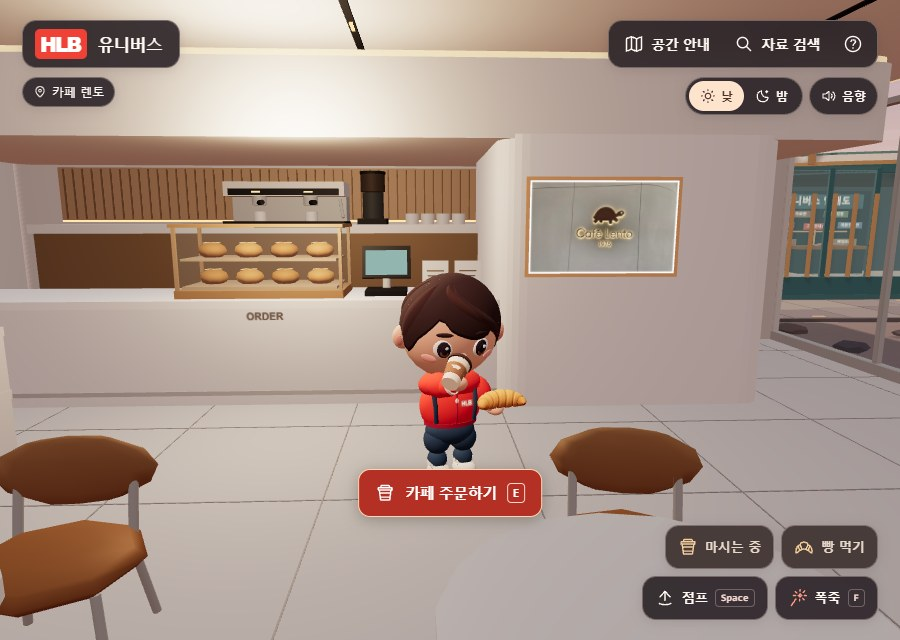
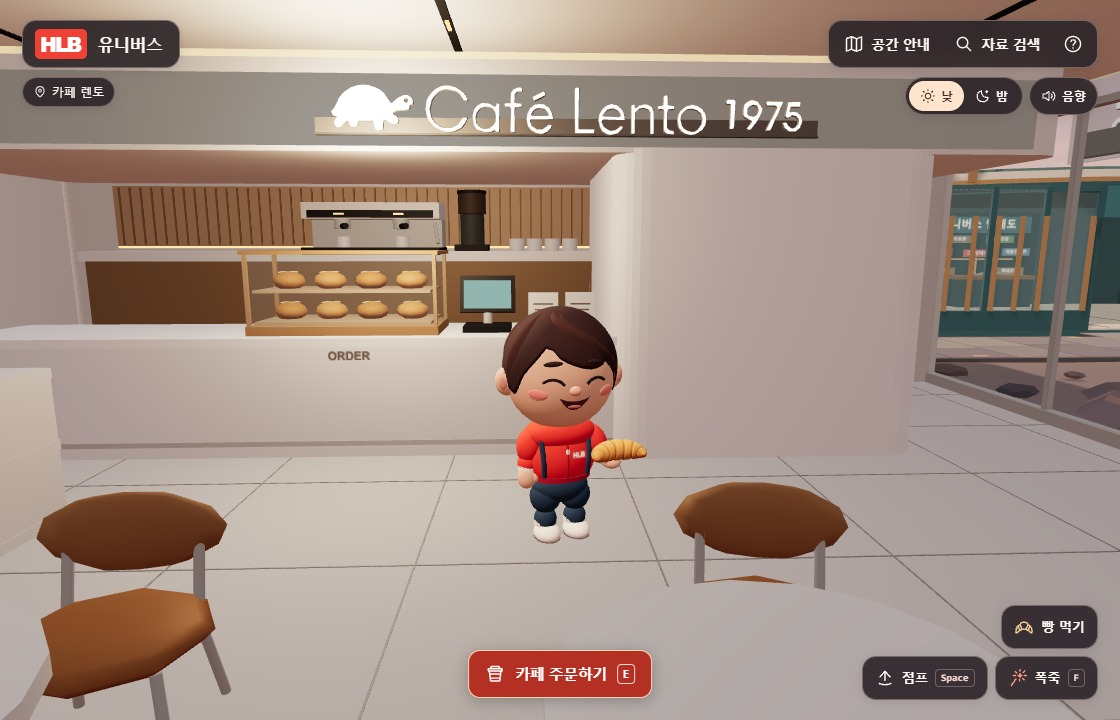
Recreate the Cafe Lento marquee and add a smile after each treat

diff --git a/src/cafe.js b/src/cafe.js
@@ -1,6 +1,49 @@
 (() => {
   "use strict";
 
+  // Front outlines traced from the supplied Café Lento sign. Each entry is
+  // one solid silhouette followed by its cutouts, in common lettering units.
+  const signOutlines=[
+    ["0,43 3,37 11,34 4,21 5,17 10,12 15,12 18,13 27,23 32,26 35,25 37,18 40,14 42,13 49,13 52,15 56,26 85,26 87,26 88,23 89,16 91,9 96,6 99,6 106,8 108,10 108,23 109,26 112,29 127,20 133,19 138,21 141,26 141,30 137,35 131,39 130,43 138,48 156,49 164,51 165,53 166,60 171,60 172,61 173,64 173,69 171,73 166,77 162,79 155,79 143,74 130,63 126,63 113,82 105,89 98,93 82,98 71,99 59,98 43,93 26,82 17,71 6,51 1,46", "154,67 158,63 161,63 163,66 163,71 162,73 158,73 155,71"],
+    ["200,51 202,38 206,27 219,13 238,5 250,4 260,6 275,13 284,24 288,33 280,34 268,19 254,12 238,12 230,14 218,23 211,35 208,51 213,69 218,77 228,86 236,90 246,92 266,88 273,83 282,70 288,69 290,71 282,84 266,95 250,99 236,98 221,91 210,80 203,69"],
+    ["300,37 302,20 306,13 310,9 328,4 340,5 346,9 352,5 356,5 358,61 356,63 352,63 350,57 348,56 336,63 322,64 316,62 309,57 304,51", "306,35 307,23 311,17 318,12 326,10 336,12 345,19 349,25 350,37 349,45 344,53 340,55 328,57 316,53 309,45"],
+    ["369,61 370,57 380,57 383,53 381,7 384,4 390,5 390,53 392,56 404,57 406,59 405,63 394,64 390,65 391,83 396,88 406,88 407,93 404,96 398,96 388,92 383,85 382,65 380,64 370,64"],
+    ["416,31 419,17 426,9 436,3 448,1 455,3 462,7 468,13 470,19 464,20 450,10 438,10 427,17 423,27 425,31 472,32 473,33 470,45 464,55 454,62 444,63 433,61 424,54 418,43", "425,41 428,38 432,38 462,38 464,41 461,47 456,53 444,55 438,54 432,51"],
+    ["429,77 432,71 434,70 456,81 456,83 454,88 452,88"],
+    ["520,93 521,3 562,3 563,11 530,11 528,13 529,95 528,97 522,97"],
+    ["572,31 576,15 581,7 592,1 600,0 613,3 622,11 626,17 620,18 610,10 598,8 588,13 583,17 578,27 580,31 584,32 628,31 629,33 626,47 620,55 612,61 600,64 588,60 580,53 574,43", "581,41 581,39 584,38 616,37 621,39 619,45 614,51 604,55 596,54 590,52"],
+    ["643,59 644,3 650,3 651,5 651,45 654,50 660,55 670,57 680,54 685,47 686,4 688,2 693,3 692,47 688,58 679,63 672,64 660,61 654,56 650,57 650,63 644,62"],
+    ["701,59 702,54 712,55 715,51 715,13 717,7 724,3 736,2 738,3 736,9 728,10 722,15 721,47 724,54 736,55 737,61 724,62 722,63 722,81 718,83 714,81 713,79 713,63 710,61 703,61"],
+    ["745,31 748,17 754,9 764,3 776,1 786,3 800,12 806,21 808,33 806,44 798,55 788,61 776,64 762,60 750,50 746,42", "751,33 754,21 758,15 766,10 776,7 784,8 791,13 798,23 800,31 798,41 795,47 787,53 776,56 766,55 757,49 752,41"],
+    ["850,70 853,66 858,67 861,65 861,18 862,14 868,14 870,18 871,72 868,75 853,75"],
+    ["889,54 890,43 894,39 909,31 909,28 899,15 902,13 907,13 920,30 930,49 931,57 927,63 919,72 907,75 899,72 894,68 891,65", "898,51 898,46 902,42 912,40 918,42 921,46 923,54 921,59 918,64 910,65 902,62 898,57"],
+    ["939,70 941,64 959,64 963,62 964,59 942,13 943,11 951,12 976,70 975,72 949,72 941,72"],
+    ["979,26 983,17 993,10 1008,10 1017,18 1021,31 1017,43 1008,50 1000,51 993,50 992,51 992,57 995,62 1014,62 1015,70 1014,72 988,71 983,42 988,38 998,44 1008,42 1013,36 1014,31 1013,26 1010,21 1003,16 998,16 991,21 986,28 980,28"]
+  ];
+
+  function makeLettering(T) {
+    function trace(path, contour) {
+      const points=contour.split(" ");
+      for (let i=0;i<points.length;i++) {
+        const [x,y]=points[i].split(",").map(Number);
+        if (i===0) path.moveTo(x,y);
+        else path.lineTo(x,y);
+      }
+      path.closePath();
+      return path;
+    }
+    const shapes=signOutlines.map(([outline,...holes])=>{
+      const shape=trace(new T.Shape(),outline);
+      shape.holes=holes.map(contour=>trace(new T.Path(),contour));
+      return shape;
+    });
+    const geometry=new T.ExtrudeGeometry(shapes,{
+      depth:7,bevelEnabled:true,bevelSize:.85,bevelThickness:1,bevelSegments:1
+    });
+    geometry.center();
+    return geometry;
+  }
+
   function build({T,site,box,place,tube,collider,colliders,roofs}) {
     // Local positive X faces the plaza. Local positive Z faces the window seats.
     const cx=-14.8, cz=10.82, roofY=3.92;
@@ -80,24 +123,31 @@
       mesh(text,new T.PlaneGeometry(w,h),mat,x,y,z).rotation.y=yaw;
     }
 
-    // Two identical photographic light boxes use the supplied original sign.
-    const signMaterial=new T.MeshBasicMaterial({color:0xb9afa0,toneMapped:false});
-    if (typeof document.createElementNS==="function") {
-      new T.TextureLoader().load("assets/cafe/cafe-lento-sign.jpg",texture=>{
-        texture.colorSpace=T.SRGBColorSpace;
-        texture.anisotropy=4;
-        signMaterial.map=texture;
-        signMaterial.color.setHex(0xffffff);
-        signMaterial.needsUpdate=true;
-      });
-    }
-    function sign(x,y,z,w,yaw) {
-      const h=w*494/800;
-      const bezel=mesh("Champagne sign surround",new T.BoxGeometry(w+.07,h+.07,.035),finish(brass),x,y,z);
-      bezel.rotation.y=yaw;
-      const face=mesh("Café Lento · turtle sign",new T.PlaneGeometry(w,h),signMaterial,
-        x+Math.sin(yaw)*.022,y,z+Math.cos(yaw)*.022);
-      face.rotation.y=yaw;
+    const lettering=makeLettering(T);
+    const letterFace=new T.MeshStandardMaterial({
+      color:0xf0e9d9,emissive:0xfff5e7,emissiveIntensity:.80,roughness:.55,toneMapped:false
+    });
+    const letterMaterials=[letterFace,finish(0x8c8376)];
+    const fascia=new T.MeshStandardMaterial({color:0x807970,metalness:.14,roughness:.58});
+    function sign(name,x,y,z,width,yaw) {
+      const mount=new T.Group();
+      mount.name=name;
+      mount.position.set(x,y,z);
+      mount.rotation.y=yaw;
+      mount.scale.setScalar(width/1100);
+      room.add(mount);
+      const board=new T.Mesh(new T.BoxGeometry(1100,34,13),fascia);
+      board.name="Steel letter rail";
+      board.position.y=-32;
+      board.receiveShadow=true;
+      mount.add(board);
+      const lowerLip=new T.Mesh(new T.BoxGeometry(1104,4,17),finish(0x59544f));
+      lowerLip.position.y=-49;
+      mount.add(lowerLip);
+      const letters=new T.Mesh(lettering,letterMaterials);
+      letters.name="Café Lento · illuminated lettering";
+      letters.position.z=12;
+      mount.add(letters);
     }
 
     slab("Limestone plinth",0,.003,0,12.22,.12,10.22,.3,finish(tile));
@@ -121,7 +171,12 @@
     block(5.94,3.48,0,.12,.075,9.92,metal);
     slab("Ivory entrance pier",5.83,.12,.61,.46,3.72,2.1,.18,finish(porcelain));
     solid(5.83,.61,.46,2.1,3.85);
-    sign(6.074,2.05,.61,1.9,Math.PI/2);
+    // Glazed transom behind the sign; the channel letters stand above their mounting rail.
+    const transom=new T.MeshStandardMaterial({
+      color:0x768487,transparent:true,opacity:.36,depthWrite:false,roughness:.26
+    });
+    mesh("Smoked transom",new T.BoxGeometry(.045,.84,7.88),transom,6.067,3.34,1.02);
+    sign("Café Lento · entrance marquee",6.11,3.33,1.02,7.71,Math.PI/2);
     block(5.94,3.55,3.0,.16,.14,2.7,espresso);
     const roofCollider=collider(cx,cz,12.34,10.3,4.18,roofY-.14);
     roofs.push(roofCollider);
@@ -143,7 +198,11 @@
     slab("Coffee bar soffit",-.34,2.84,-3.11,10.55,.74,3.14,.28,finish(plaster));
     slab("Coffee bar cove",-.34,3.58,-3.11,10.46,.065,3.08,.25,cove);
     slab("Rounded sign wall",2.40,.12,-2.99,2.88,2.76,2.95,.30,finish(porcelain));
-    sign(2.00,1.98,-1.49,1.48,0);
+    const smokedGlass=new T.MeshBasicMaterial({
+      color:0x6c665e,transparent:true,opacity:.64,depthWrite:false,toneMapped:false
+    });
+    mesh("Coffee bar glass header",new T.BoxGeometry(9.90,.57,.018),smokedGlass,-.34,3.17,-1.529);
+    sign("Café Lento · counter marquee",.56,3.16,-1.51,4.22,0);
     block(-1.57,1.04,-4.23,6.9,1.75,.8,oakShadow);
     block(-1.57,1.93,-4.20,6.98,.12,.86,porcelain);
     block(-1.57,2.42,-4.72,6.95,.75,.32,oak);
@@ -273,7 +332,7 @@
       id:"cafe",...entry,station,lookAt,label:{...entry,y:3.68},
       interior:{minX:cx-6,maxX:cx+6,minZ:cz-5,maxZ:cz+5,ceilingY:roofY-.15},
       exhibits:[{id:"cafe-counter",title:"카페 주문대",station,lookAt,
-        hitBox:collider(cx-.92,cz-2.53,8.28,2.12,2.76,.12)}]
+        hitBox:collider(cx-.92,cz-2.53,8.28,2.17,3.49,.12)}]
     };
   }
 

diff --git a/src/player3d.js b/src/player3d.js
@@ -85,6 +85,7 @@
     const head = joint(chest,0,headHeightAboveHips,-.009);
     head.name = "visitor-head";
     const eyes = joint(head,0,-.022,0);
+    eyes.name = "visitor-eyes";
     part(head,(oval,band,seam,add) => {
       oval(skin,0,0,0,.373,.388,.303);
       for (const s of [-1,1]) {
@@ -163,6 +164,35 @@
       seam(0x9a5455,[[-.056,.009,-.001],[-.027,-.008,0],
         [0,-.013,.001],[.030,-.006,0],[.054,.011,-.001]],.008);
     });
+    const smile = joint(head,0,0,0);
+    smile.name = "visitor-cafe-smile";
+    smile.visible = false;
+    part(smile,(oval,band,seam,add) => {
+      // Place the expression directly on the rounded face, even at its outer edges.
+      function surface(x,y) {
+        return -.303*Math.sqrt(1-(x/.373)**2-(y/.388)**2)-.006;
+      }
+      for (const s of [-1,1]) {
+        const eyelid = [[.073,-.040],[.100,-.016],[.139,-.004],[.175,-.010],[.200,-.025]];
+        seam(ink,eyelid.map(([x,y])=>[s*x,y,surface(x,y)-.004]),.010);
+        oval(0xed8a7c,s*.225,-.101,-.234,.064,.030,.012,0,-s*.60,s*.12);
+      }
+      // A broad open grin with lifted corners; a pink tongue follows its lower lip.
+      const vertices=[], indices=[];
+      for (let i=0;i<=20;i++) {
+        const u=i/10-1, x=u*.100;
+        for (const y of [-.148+.024*u*u,-.207+.083*u*u]) vertices.push(x,y,surface(x,y)-.004);
+        if (i) {
+          const k=i*2;
+          indices.push(k-2,k,k-1,k,k+1,k-1);
+        }
+      }
+      const grin=new T.BufferGeometry();
+      grin.setAttribute("position",new T.Float32BufferAttribute(vertices,3));
+      grin.setIndex(indices); grin.computeVertexNormals();
+      add(grin,0x773c42,0,0,0,1,1,1);
+      oval(0xeb9585,0,-.184,surface(0,-.184)-.006,.043,.012,.006,-.49);
+    });
 
     const labelCanvas = document.createElement("canvas");
     labelCanvas.width = 256; labelCanvas.height = 112;
@@ -215,7 +245,9 @@
       arms.push({arm,elbow,hand}); legs.push({thigh,shin});
     }
     const treats = {coffee:null, bread:null};
-    let consuming = null, consumeTime = 0;
+    const tastingPose = {turnIn:0, turnBack:0};
+    const smileDuration=1.45;
+    let consuming = null, consumeTime = 0, smileRemaining = 0;
     function orderCafeItem(item) {
       if ((item !== "coffee" && item !== "bread") || treats[item]) return false;
       const prop = new T.Group();
@@ -277,7 +309,7 @@
     }
     function consumeCafeItem(item) {
       if ((item !== "coffee" && item !== "bread") || consuming || !treats[item]) return false;
-      consuming=item; consumeTime=0;
+      consuming=item; consumeTime=0; smileRemaining=0;
       return true;
     }
     function getCafeState() {
@@ -299,13 +331,17 @@
     let phase = 0, weight = 0, elapsed = 0;
     function animate(dt, travelled, reducedMotion, jumpHeight = 0) {
       elapsed += dt;
-      let reach=0, chew=0;
+      let reach=0, chew=0, happy=false, turn=null;
+      const smooth=T.MathUtils.smoothstep;
       if (consuming) {
         const drink=consuming==="coffee";
         consumeTime += dt;
         const t=consumeTime/(reducedMotion ? .92 : drink ? 1.76 : 1.56);
-        const smooth=T.MathUtils.smoothstep;
         reach=smooth(t,0,.32)*(1-smooth(t,.65,1));
+        turn=tastingPose;
+        turn.turnIn=reducedMotion ? 1 : smooth(t,0,.32);
+        turn.turnBack=0;
+        happy=t>=.81;
         if (!drink && !reducedMotion) chew=Math.sin(t*Math.PI*15)*smooth(t,.38,.55)*(1-smooth(t,.78,.99));
         if (t>=1) {
           const prop=treats[consuming];
@@ -313,8 +349,18 @@
           prop.traverse(object=>object.geometry?.dispose());
           treats[consuming]=null;
           consuming=null;
+          smileRemaining=smileDuration;
+        }
+      } else if (smileRemaining>0) {
+        smileRemaining=Math.max(0,smileRemaining-dt);
+        happy=smileRemaining>0;
+        if (happy) {
+          turn=tastingPose; turn.turnIn=1;
+          turn.turnBack=reducedMotion ? 0 : 1-smooth(smileRemaining,0,.38);
         }
       }
+      smile.visible=happy;
+      eyes.visible=mouth.visible=!happy;
       phase += travelled * 7.2;
       weight += ((travelled > 0.0002 ? 1 : 0) - weight) * (1 - Math.exp(-dt * 15));
       const inAir = clamp(jumpHeight / .53,0,1);
@@ -353,7 +399,7 @@
           prop.quaternion.setFromEuler(tilt).premultiply(wrist);
         }
       }
-      return consuming ? reach : null;
+      return turn;
     }
     function dispose() {
       root.removeFromParent();
@@ -557,10 +603,11 @@
     function consumeCafeItem(item) {
       if (!active || !visitor.consumeCafeItem(item)) return false;
       if (!route.length && !held.size && !freshPresses.size && Math.hypot(stick.x,stick.y)<=.04) {
-        const from=visitor.root.rotation.y;
+        const start=visitor.root.rotation.y, home=cafeTurn?.home ?? start;
         const toCamera=yaw+Math.PI+(item==="coffee" ? .32 : -.32);
-        const delta=Math.atan2(Math.sin(toCamera-from),Math.cos(toCamera-from));
-        cafeTurn={from,delta};
+        const toward=Math.atan2(Math.sin(toCamera-start),Math.cos(toCamera-start));
+        const back=Math.atan2(Math.sin(home-toCamera),Math.cos(home-toCamera));
+        cafeTurn={start,home,toward,back};
       }
       return true;
     }
@@ -684,13 +731,13 @@
       if (active) jumpTime = Math.min(jumpDuration, jumpTime + dt);
       const jumpPhase = jumpTime / jumpDuration;
       jumpHeight = 4 * jumpPeak * jumpPhase * (1 - jumpPhase);
-      const reach=visitor.animate(active ? dt : 0,travelled,reducedMotion.matches,jumpHeight);
+      const tastingPose=visitor.animate(active ? dt : 0,travelled,reducedMotion.matches,jumpHeight);
       if (active && cafeTurn) {
-        // Present the active hand to the current viewpoint. Following the hand's
-        // reach also restores the original heading as the arm comes down.
-        const turn=reach===null ? 0 : reducedMotion.matches ? 1 : reach;
-        visitor.root.rotation.y=cafeTurn.from+cafeTurn.delta*turn;
-        if (reach===null) cafeTurn=null;
+        // Stay facing the viewer after the hand comes down so the smile is visible.
+        visitor.root.rotation.y=tastingPose
+          ? cafeTurn.start+cafeTurn.toward*tastingPose.turnIn+cafeTurn.back*tastingPose.turnBack
+          : cafeTurn.home;
+        if (!tastingPose) cafeTurn=null;
       }
       updateCamera(dt);
       return position;

diff --git a/index.html b/index.html
@@ -7,7 +7,7 @@
   <meta name="description" content="HLB 유니버스에서 에데꼬론 상품관과 HLB그룹 전시관을 걸으며 제품과 그룹 자료를 살펴보세요.">
   <title>HLB 유니버스</title>
   <link rel="icon" href="assets/favicon.svg" type="image/svg+xml">
-  <link rel="stylesheet" href="styles.css?v=cafe">
+  <link rel="stylesheet" href="styles.css?v=lento2">
   <script defer src="assets/vendor/three.min.js"></script>
   <script defer src="src/catalog-data.js?v=cafe"></script>
   <script defer src="src/catalog.js"></script>
@@ -18,13 +18,13 @@
   <script defer src="src/reader.js"></script>
   <script defer src="src/cologne-gallery.js?v=pavilions"></script>
   <script defer src="src/hall-designs.js?v=cafe"></script>
-  <script defer src="src/cafe.js"></script>
+  <script defer src="src/cafe.js?v=lento2"></script>
   <script defer src="src/world3d.js?v=cafe"></script>
-  <script defer src="src/player3d.js?v=cafe"></script>
+  <script defer src="src/player3d.js?v=lento2"></script>
   <script defer src="src/time-of-day.js"></script>
   <script defer src="src/chamber-music.js"></script>
   <script defer src="src/fireworks.js"></script>
-  <script defer src="src/app.js?v=cafe"></script>
+  <script defer src="src/app.js?v=lento2"></script>
 </head>
 <body>
   <svg class="symbols" aria-hidden="true" xmlns="http://www.w3.org/2000/svg">
@@ -103,8 +103,8 @@
       <section id="cafe-pane" hidden>
         <p class="panel-desc">메뉴를 골라 주세요. 두 가지 모두 가져갈 수 있어요.</p>
         <div class="cafe-menu">
-          <button type="button" id="order-coffee"><svg aria-hidden="true"><use href="#coffee-icon"/></svg><span>커피 주문하기</span><small>오른손</small></button>
-          <button type="button" id="order-bread"><svg aria-hidden="true"><use href="#bread-icon"/></svg><span>빵 주문하기</span><small>왼손</small></button>
+          <button type="button" id="order-coffee"><svg aria-hidden="true"><use href="#coffee-icon"/></svg><span>커피 주문하기</span></button>
+          <button type="button" id="order-bread"><svg aria-hidden="true"><use href="#bread-icon"/></svg><span>빵 주문하기</span></button>
         </div>
         <p id="order-status" role="status"></p>
         <button type="button" class="leave-counter" id="leave-counter">주문대 떠나기 <svg aria-hidden="true"><use href="#arrow-icon"/></svg></button>

diff --git a/src/app.js b/src/app.js
@@ -21,8 +21,8 @@
   const cafeCounterRadius = 1.8;
   const archiveSpaces = new Set();
   const cafeMenu = [
-    {item:"coffee", hand:"오른손", action:"커피 마시기", progress:"마시는 중", received:"커피를 오른손에 들었어요.", button:el("drink-coffee")},
-    {item:"bread", hand:"왼손", action:"빵 먹기", progress:"먹는 중", received:"빵을 왼손에 들었어요.", button:el("eat-bread")}
+    {item:"coffee", name:"커피", action:"커피 마시기", progress:"마시는 중", received:"커피를 받았어요.", button:el("drink-coffee")},
+    {item:"bread", name:"빵", action:"빵 먹기", progress:"먹는 중", received:"빵을 받았어요.", button:el("eat-bread")}
   ];
   let lastCarryState = "";
   const visitId = new URLSearchParams(location.search).get("visit");
@@ -196,13 +196,13 @@
     const carrying = held.coffee || held.bread;
     el("carry-actions").hidden = !carrying;
     el("experience").classList.toggle("carrying",carrying);
-    for (const {item, hand, action, progress, button} of cafeMenu) {
+    for (const {item, name, action, progress, button} of cafeMenu) {
       button.hidden = !held[item];
       button.disabled = Boolean(held.consuming);
       button.querySelector("span").textContent = held.consuming === item ? progress : action;
       const order = el("order-" + item);
       order.disabled = held[item];
-      order.querySelector("small").textContent = held[item] ? hand + "에 들고 있음" : hand;
+      order.querySelector("span").textContent = name + (held[item] ? " 주문 완료" : " 주문하기");
     }
   }
 

diff --git a/styles.css b/styles.css
@@ -104,7 +104,6 @@ dialog::backdrop { background:#261c235c; }
 .cafe-menu button + button { border-left:1px solid #ddd0c0; }
 .cafe-menu svg { width:33px; height:33px; stroke-width:1.3; margin-bottom:5px; }
 .cafe-menu span { font-weight:700; }
-.cafe-menu small { font-size:12px; color:#705f51; }
 .cafe-menu button:enabled:hover { background:#f3e8d9; }
 .cafe-menu button:disabled { background:#eee7dd; color:#746658; cursor:default; }
 #order-status { margin:10px 0; min-height:1.5em; font-size:13px; color:#69513c; }

diff --git a/README.md b/README.md
@@ -23,7 +23,7 @@ npm start
 - **열람** — 실내 열람대 앞에서 E 키나 ‘자료 보기’ 버튼을 누릅니다. 상단 ‘자료 검색’에서도 같은 열람창을 사용할 수 있습니다. ‘자료 목록’으로 돌아가면 검색과 필터가 유지되고, ×를 누르면 그 자리에서 산책을 이어갑니다.
 - **문서와 표** — 자료를 선택하면 주요 내용이나 표가 즉시 표시됩니다. ‘원본 보기’에서 PDF 전체 페이지를 넘기거나 쪽 번호로 이동하고 확대할 수 있습니다. 연락처·공식 채널·비전 표에는 자료 내 검색이 있습니다.
 - **에데꼬론** — 공간 안내에서 걸어가거나 [상품관 내부에서 시작](http://127.0.0.1:4173/?visit=cologne)할 수 있습니다. 디퓨저나 카트리지 진열대를 클릭하면 캐릭터가 다가가 설명을 엽니다. ‘전시 안내’에서 목적지를 선택하거나 직접 걸어가 E를 눌러도 됩니다.
-- **카페 렌토** — 광장 서쪽의 카페로 걸어가거나 [주문대 앞에서 시작](https://hlbbusisup-creator.github.io/hlb-universe/?visit=cafe)할 수 있습니다. 주문대를 누르거나 앞에서 E를 눌러 커피와 빵을 주문합니다. 커피는 오른손, 빵은 왼손에 들고 다닙니다. 산책 중 ‘커피 마시기’나 ‘빵 먹기’를 누르면 캐릭터가 입으로 가져가고 그 손이 비워집니다.
+- **카페 렌토** — 광장 서쪽에서 흰 거북이와 ‘Café Lento 1975’ 간판을 찾거나 [주문대 앞에서 시작](https://hlbbusisup-creator.github.io/hlb-universe/?visit=cafe)할 수 있습니다. 주문대를 누르거나 앞에서 E를 눌러 커피와 빵을 주문합니다. 두 가지를 함께 들고 다닐 수 있고, ‘커피 마시기’나 ‘빵 먹기’를 누르면 캐릭터가 한입 즐긴 뒤 미소를 짓습니다.
 - **연결 범위** — 팝업 본문과 PDF 19권은 로컬 서버만으로 열립니다. 영상 3편과 대화형 사업장 지도는 원 게시자의 플레이어를 팝업 안에 표시하므로 인터넷이 필요합니다. 사업장 주소 목록과 영상 소개는 연결 없이도 읽을 수 있습니다.
 
 | 공간 | 열람 자료와 체험 |
